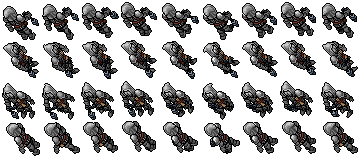
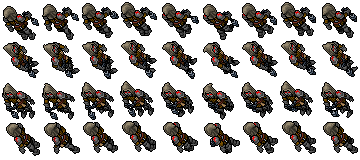
Stag Bastion: recoloriza os 3 Raubritters com as cores oficiais do staticdata
Os sheets foram gerados renderizando so a camada base (grayscale por
design) das outfits 1900/1901/1902 — a camada 1 (mascara de outfit) nunca
foi aplicada, entao cavalo e cavaleiro saiam cinzas.

tools/colorize_raubritters.py remonta os sheets aplicando
compose_outfit(base, mask, cores oficiais) — cores extraidas do
staticdata-*.dat do client 15.x (race 2750/2751/2752 ->
[94,19,3,19]/[94,19,118,2]/[94,19,21,78]). Geometria identica aos PNGs
atuais (mesmas celulas 38x38/40x40/41x38, 9 col x 4 dir) — MOBSHEETS e
CREATURE_ANCHORS nao mudam. ASSET_VERSION 72->73 forca refetch.

Generated with [Devin](https://devin.ai)

diff --git a/tibia-idle/game/js/render.js b/tibia-idle/game/js/render.js
@@ -254,7 +254,7 @@ function drawMonsterSprite(ctx, img, x, y, w, h) {
  * atualizar uma sprite no repositorio nao chegava em quem ja tinha aberto o
  * jogo — a arte antiga continuava aparecendo ate limpar o cache na mao.
  * Subir esse numero a cada lote de sprites novas forca o download. */
-const ASSET_VERSION = "72";
+const ASSET_VERSION = "73";
 /* Teto absoluto de vida visual: strip/meta errado ou dt travado nunca
  * pode deixar magia/areafx/fala grudados no canvas. */
 const FX_MAX_LIFE_MS = 2800;

diff --git a/tibia-idle/tools/colorize_raubritters.py b/tibia-idle/tools/colorize_raubritters.py
@@ -1,0 +1,145 @@
+"""
+colorize_raubritters.py — recoloriza os sheets dos Raubritters (Stag
+Bastion / Court Warlock waves) com as cores oficiais do staticdata 15.x.
+
+Os sheets `assets/mob/raubritter-{skirmisher,chastener,marksman}.png` foram
+gerados do appearances.dat renderizando SÓ a camada base (layer 0) — que é
+grayscale por design. A camada 1 é a máscara (vermelho=body, verde=legs,
+amarelo=head, azul=feet) que o client oficial recoloriza com as cores da
+criatura. Resultado: cavalos/cavaleiros cinzas.
+
+Cores oficiais (refs/gameclient-main/assets/staticdata-*.dat, race ->
+outfit+colors):
+  raubritter skirmisher race 2750 -> outfit 1900, [94, 19, 3, 19],  addon 0
+  raubritter marksman   race 2751 -> outfit 1901, [94, 19, 118, 2], addon 2
+  raubritter chastener  race 2752 -> outfit 1902, [94, 19, 21, 78], addon 0
+(marksman: staticdata diz addon 2, mas a outfit 1901 só tem py=1 — sem
+pose de addon no arquivo; o sheet mantém py=0.)
+
+Layout idêntico ao pipeline original: 9 colunas (idle + 8 walk) x 4
+direções, caixa compartilhada calculada na camada base — a geometria
+(cw/ch dos MOBSHEETS e CREATURE_ANCHORS) não muda.
+
+Uso: python tools/colorize_raubritters.py [--check]
+     --check  só reporta se o PNG atual difere do recolorizado (não grava)
+"""
+import os
+import sys
+
+from PIL import Image
+
+sys.path.insert(0, os.path.dirname(os.path.abspath(__file__)))
+from render_15x_sprites import Sprites15x            # noqa: E402
+from tibia_assets import OUTFIT_COLORS, bgr_to_rgb  # noqa: E402
+from tibia_assets_860 import compose_outfit         # noqa: E402
+
+HERE = os.path.dirname(os.path.abspath(__file__))
+GAME = os.path.normpath(os.path.join(HERE, "..", "game"))
+
+CELL = 64
+DIRS = 4
+MAX_WALK = 12
+
+# slug, looktype, [head, body, legs, feet] (índices da paleta oficial)
+MOBS = [
+    ("raubritter-skirmisher", 1900, [94, 19, 3, 19]),
+    ("raubritter-marksman",   1901, [94, 19, 118, 2]),
+    ("raubritter-chastener",  1902, [94, 19, 21, 78]),
+]
+
+
+def _cell(spr, looktype, group, layer, direction, phase):
+    return spr.render_outfit(looktype, direction=direction, phase=phase,
+                             group=group, layer=layer)
+
+
+def _montar(spr, looktype, layer):
+    """Grid CELL x CELL: col 0 = idle (grupo 0), cols 1..N = walk (grupo 1)."""
+    obj = spr.appearances.outfit(looktype)
+    if not obj or len(obj.groups) < 2:
+        return None, 0
+    g_walk = obj.groups[1]
+    passos = min(int(g_walk.phases), MAX_WALK)
+    cols = 1 + passos
+    sheet = Image.new("RGBA", (CELL * cols, CELL * DIRS), (0, 0, 0, 0))
+    for d in range(DIRS):
+        idle = _cell(spr, looktype, 0, layer, d, 0)
+        if idle is not None:
+            if idle.size != (CELL, CELL):
+                idle = idle.resize((CELL, CELL))
+            sheet.alpha_composite(idle, (0, d * CELL))
+        for p in range(passos):
+            img = _cell(spr, looktype, 1, layer, d, p)
+            if img is None:
+                continue
+            if img.size != (CELL, CELL):
+                img = img.resize((CELL, CELL))
+            sheet.alpha_composite(img, ((1 + p) * CELL, d * CELL))
+    return sheet, cols
+
+
+def _caixa(base):
+    """Bbox compartilhada de todas as células (coords dentro da célula)."""
+    cols = base.width // CELL
+    x0, y0, x1, y1 = CELL, CELL, 0, 0
+    achou = False
+    for d in range(DIRS):
+        for c in range(cols):
+            b = base.crop((c * CELL, d * CELL, (c + 1) * CELL,
+                           (d + 1) * CELL)).getbbox()
+            if not b:
+                continue
+            achou = True
+            x0, y0 = min(x0, b[0]), min(y0, b[1])
+            x1, y1 = max(x1, b[2]), max(y1, b[3])
+    return (x0, y0, x1, y1) if achou else None
+
+
+def recolor(spr, looktype, colors):
+    base, cols = _montar(spr, looktype, 0)
+    mask, _ = _montar(spr, looktype, 1)
+    if base is None:
+        return None, None
+    box = _caixa(base)
+    if not box:
+        return None, None
+    x0, y0, x1, y1 = box
+    cw, ch = x1 - x0, y1 - y0
+    rgb = [bgr_to_rgb(OUTFIT_COLORS[c % len(OUTFIT_COLORS)]) for c in colors]
+    out = Image.new("RGBA", (cw * cols, ch * DIRS), (0, 0, 0, 0))
+    for d in range(DIRS):
+        for c in range(cols):
+            r = (c * CELL + x0, d * CELL + y0, c * CELL + x1, d * CELL + y1)
+            cel = base.crop(r)
+            mcel = mask.crop(r) if mask is not None else None
+            cel = compose_outfit(cel, mcel, *rgb)
+            out.paste(cel, (c * cw, d * ch))
+    return out, (cw, ch, cols)
+
+
+def main():
+    check = "--check" in sys.argv
+    spr = Sprites15x()
+    for slug, lt, colors in MOBS:
+        novo, geom = recolor(spr, lt, colors)
+        if novo is None:
+            print("%s: falhou (outfit %d sem frames)" % (slug, lt))
+            continue
+        path = os.path.join(GAME, "assets", "mob", slug + ".png")
+        cw, ch, cols = geom
+        velho = Image.open(path).convert("RGBA") if os.path.exists(path) else None
+        if velho is not None and velho.size == novo.size and \
+                list(velho.getdata()) == list(novo.getdata()):
+            print("%s: já colorido (inalterado)" % slug)
+            continue
+        if check:
+            print("%s: mudaria -> %dx%d (%d cols) %s" %
+                  (slug, novo.width, novo.height, cols, path))
+        else:
+            novo.save(path)
+            print("%s: recolorido -> %dx%d cells %dx%d (%d cols)" %
+                  (slug, cw, ch, novo.width, novo.height, cols))
+
+
+if __name__ == "__main__":
+    main()
